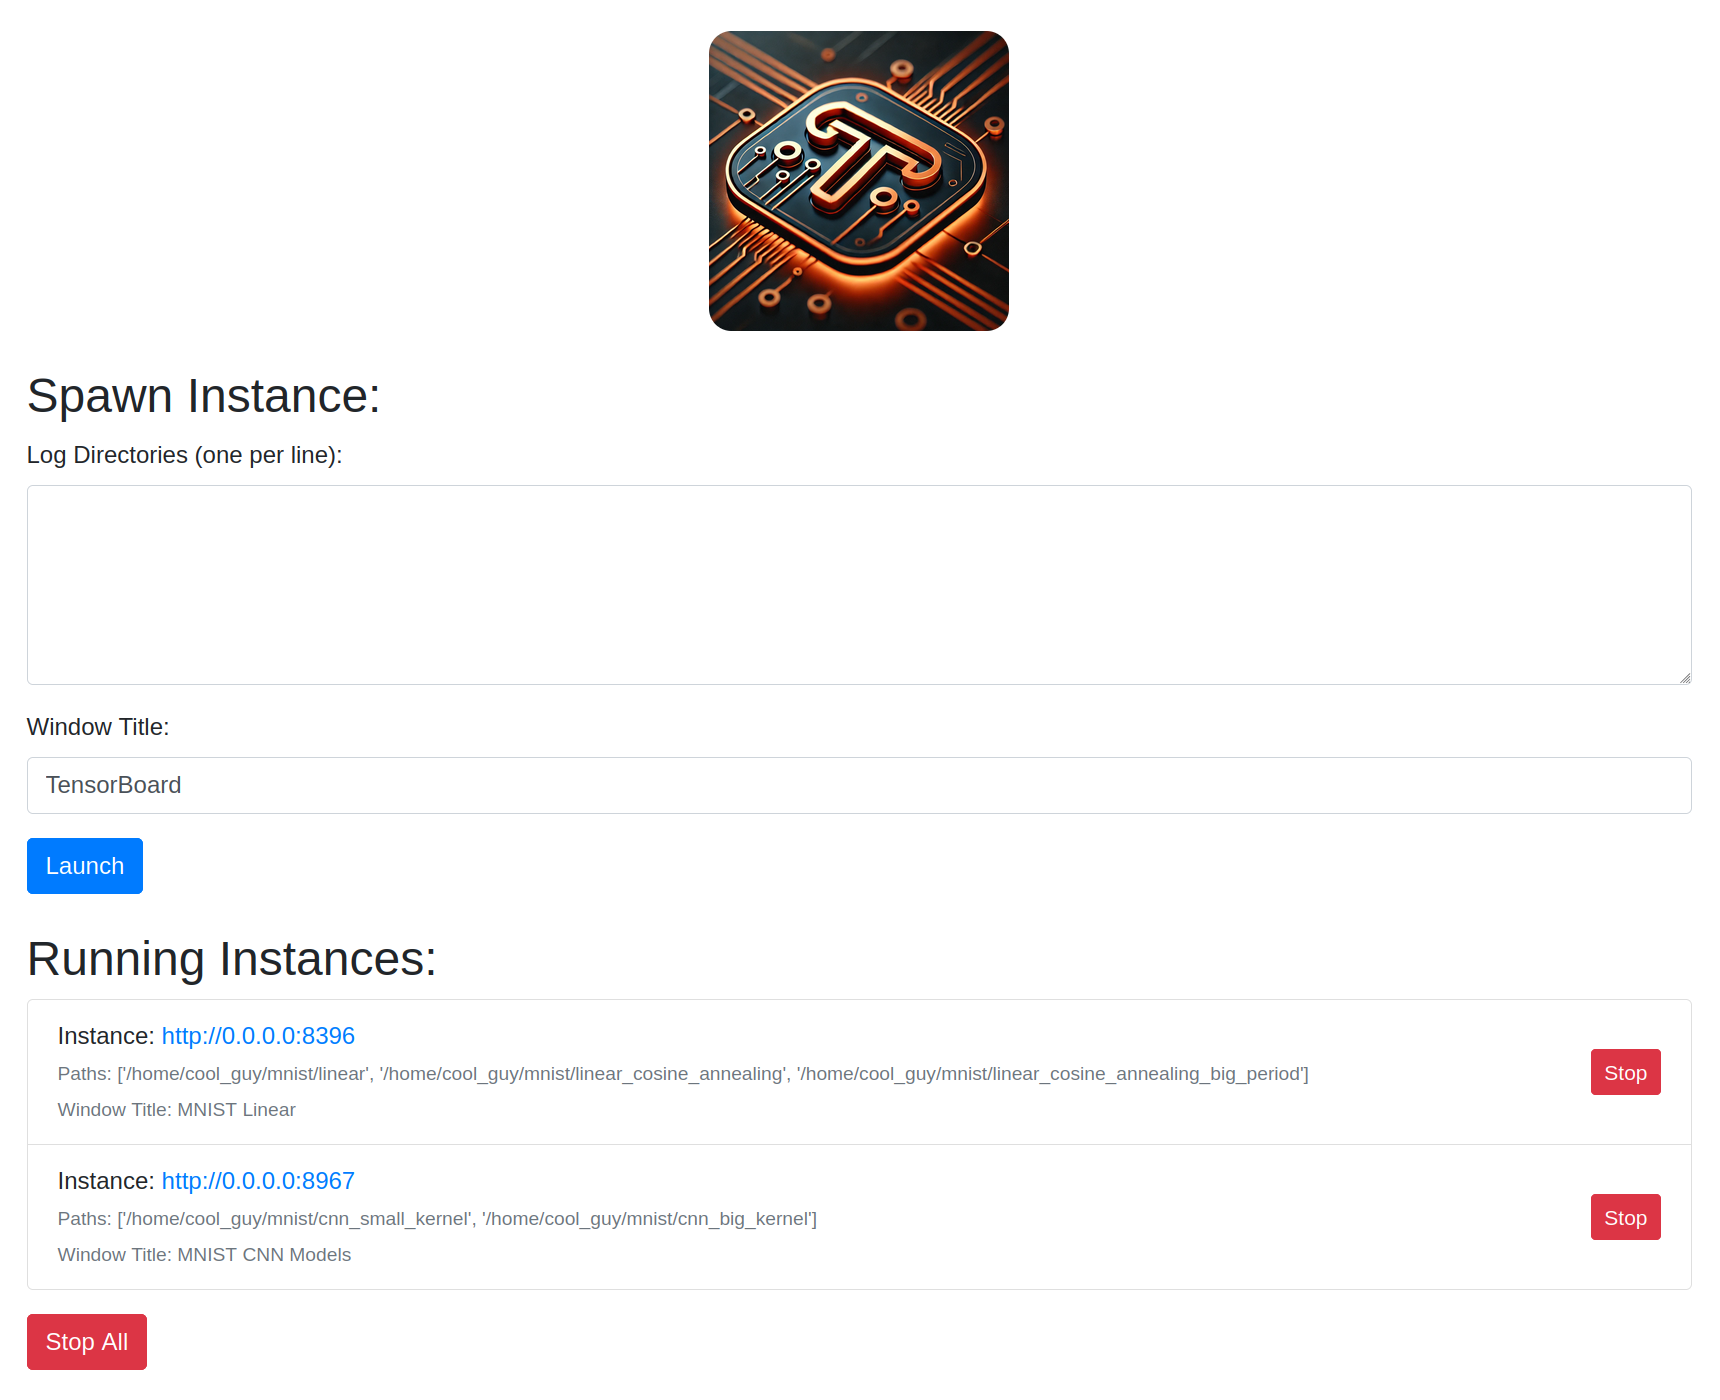
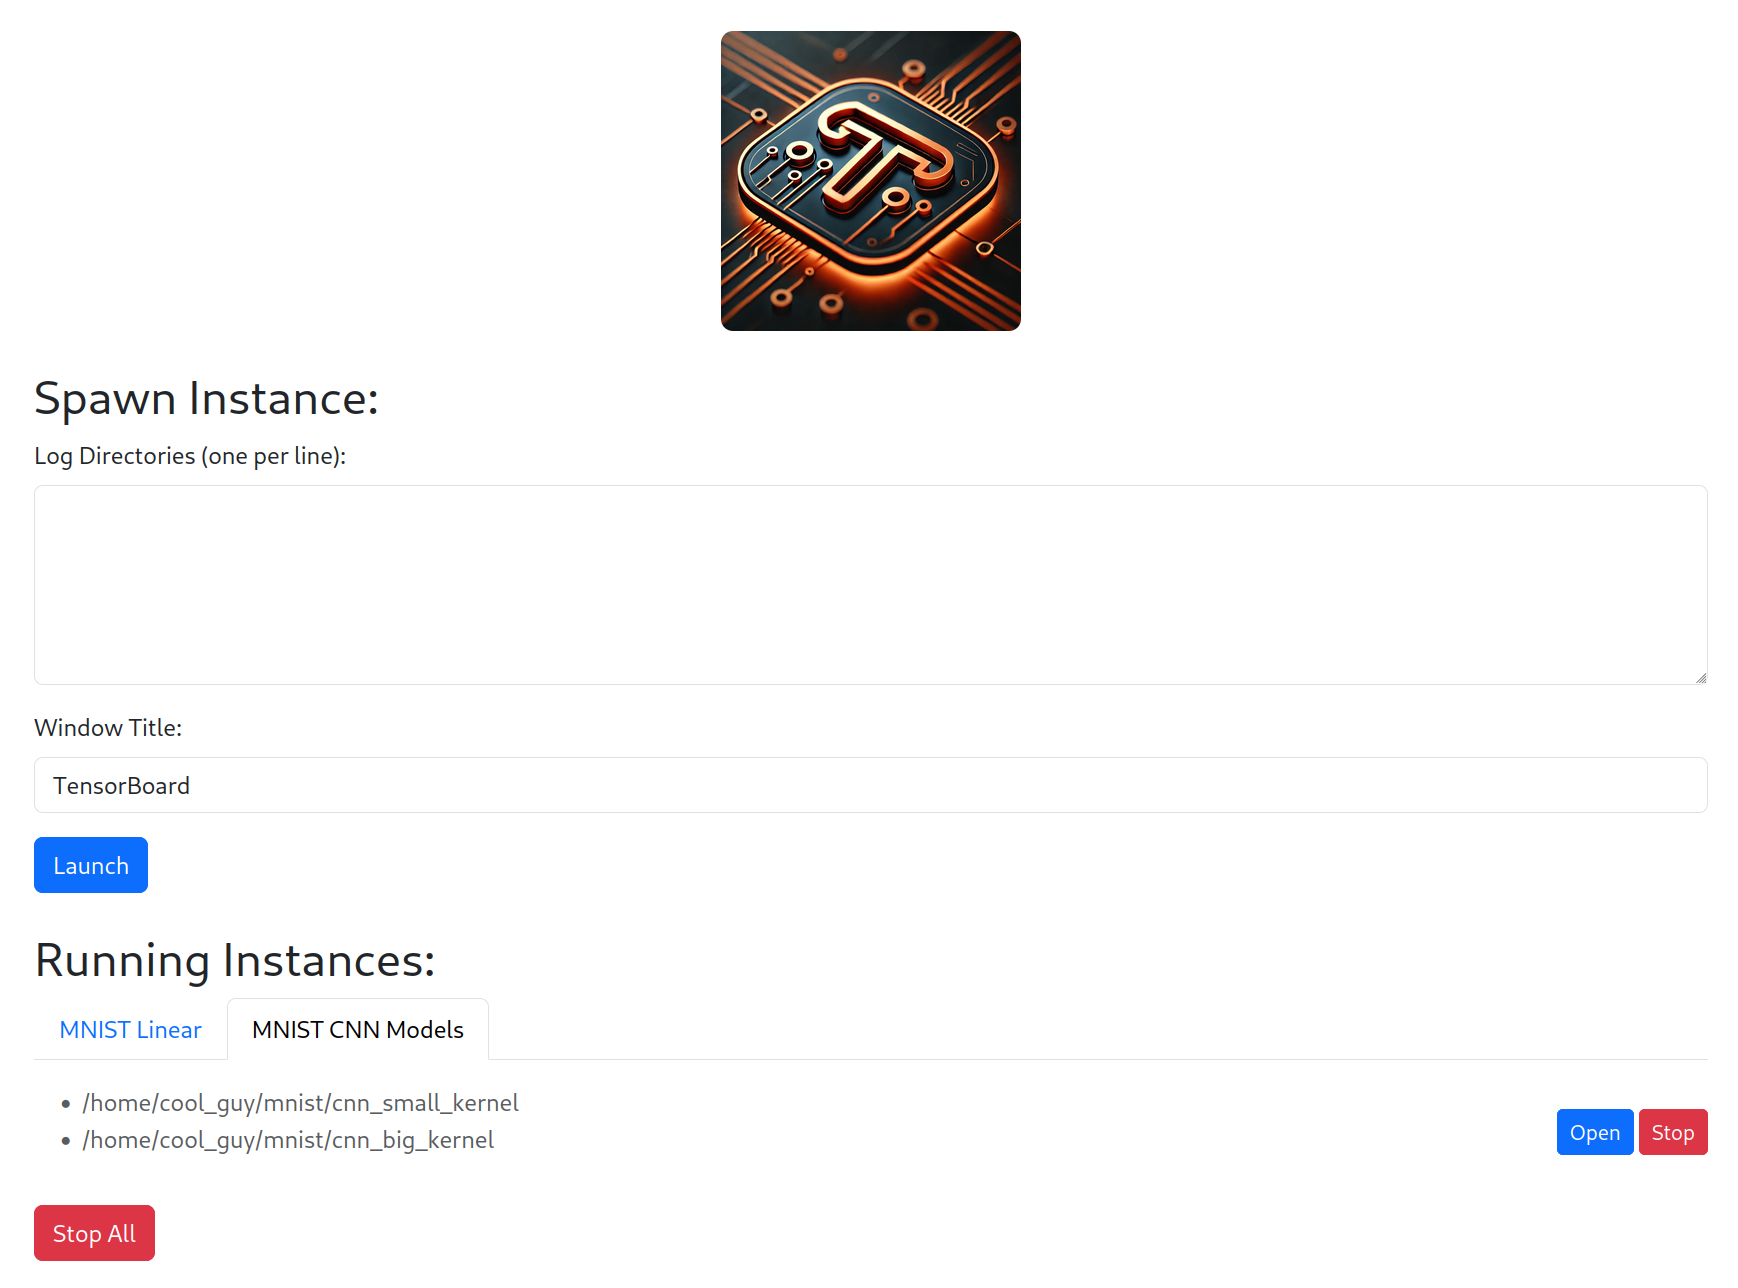
Improve UI

diff --git a/templates/index.html b/templates/index.html
@@ -4,49 +4,63 @@
     <meta charset="UTF-8">
     <meta name="viewport" content="width=device-width, initial-scale=1.0">
     <title>TensorBoard Manager</title>
-    <link rel="stylesheet" href="https://stackpath.bootstrapcdn.com/bootstrap/4.5.2/css/bootstrap.min.css">
+    <link href="https://cdn.jsdelivr.net/npm/bootstrap@5.3.0/dist/css/bootstrap.min.css" rel="stylesheet">
 </head>
 <body>
-    <div class="container mt-5">
-        <div class="text-center mb-4">
-            <img alt="TensorBoard Manager" src="{{ url_for('static', filename='logo.webp') }}" style="border-radius: 15px; max-height: 200px">
-        </div>
-
-        <h2>Spawn Instance:</h2>
-        <form method="POST" class="mb-4">
-            <div class="form-group">
-                <label for="paths">Log Directories (one per line):</label>
-                <textarea class="form-control" id="paths" name="paths" rows="5"></textarea>
-            </div>
-            <div class="form-group">
-                <label for="title">Window Title:</label>
-                <input type="text" class="form-control" id="title" name="title" value="TensorBoard">
-            </div>
-            <button type="submit" class="btn btn-primary">Launch</button>
-        </form>
-
-        <h2>Running Instances:</h2>
-        <ul class="list-group">
-            {% for cfg, ident, logdir, port in instances %}
-            <li class="list-group-item d-flex justify-content-between align-items-center">
-                <span>
-            Instance: <a href="http://{{ host }}:{{ port }}" target="_blank">http://{{ host }}:{{ port }}</a>
-                    <br>
-                    <small class="text-muted">Paths: {{ cfg.paths }}</small>
-                    <br>
-                    <small class="text-muted">Window Title: {{ cfg.title }}</small>
-                </span>
-                <a href="{{ url_for('stop', instance_id=ident) }}" class="btn btn-danger btn-sm">Stop</a>
-            </li>
-            {% endfor %}
-        </ul>
-        <div class="mt-3">
-            <a href="{{ url_for('cleanup') }}" class="btn btn-danger" onclick="return confirm('Are you sure you want to stop all instances?')">Stop All</a>
-        </div>
+<div class="container mt-5">
+    <div class="text-center mb-4">
+        <img alt="TensorBoard Manager" src="{{ url_for('static', filename='logo.webp') }}" class="rounded-3" style="max-height: 200px">
     </div>
 
-    <script src="https://code.jquery.com/jquery-3.5.1.slim.min.js"></script>
-    <script src="https://cdn.jsdelivr.net/npm/@popperjs/core@2.5.3/dist/umd/popper.min.js"></script>
-    <script src="https://stackpath.bootstrapcdn.com/bootstrap/4.5.2/js/bootstrap.min.js"></script>
+    <h2>Spawn Instance:</h2>
+    <form method="POST" class="mb-4">
+        <div class="mb-3">
+            <label for="paths" class="form-label">Log Directories (one per line):</label>
+            <textarea class="form-control" id="paths" name="paths" rows="5"></textarea>
+        </div>
+        <div class="mb-3">
+            <label for="title" class="form-label">Window Title:</label>
+            <input type="text" class="form-control" id="title" name="title" value="TensorBoard">
+        </div>
+        <button type="submit" class="btn btn-primary">Launch</button>
+    </form>
+
+    <h2>Running Instances:</h2>
+    <ul class="nav nav-tabs" id="instanceTabs" role="tablist">
+        {% for cfg, ident, logdir, port in instances %}
+        <li class="nav-item" role="presentation">
+            <button class="nav-link {% if loop.first %}active{% endif %}" id="tab-{{ ident }}" data-bs-toggle="tab" data-bs-target="#content-{{ ident }}" type="button" role="tab">
+                {{ cfg.title }}
+            </button>
+        </li>
+        {% endfor %}
+    </ul>
+    <div class="tab-content mt-3">
+        {% for cfg, ident, logdir, port in instances %}
+        <div class="tab-pane {% if loop.first %}show active{% endif %}" id="content-{{ ident }}" role="tabpanel">
+            <div class="d-flex justify-content-between align-items-center">
+                <span>
+                    <ul class="text-muted">
+                        {% for path in cfg.paths %}
+                        <li>{{ path }}</li>
+                        {% endfor %}
+                    </ul>
+                </span>
+                <span>
+                  <a href="http://{{ host }}:{{ port }}" target="_blank" class="btn btn-primary btn-sm">Open</a>
+                  <a href="{{ url_for('stop', instance_id=ident) }}" class="btn btn-danger btn-sm" onclick="return confirm('Are you sure you want to stop this instance?')">Stop</a>
+                </span>
+            </div>
+        </div>
+        {% endfor %}
+    </div>
+
+    <div class="mt-3">
+        <a href="{{ url_for('cleanup') }}" class="btn btn-danger" onclick="return confirm('Are you sure you want to stop all instances?')">Stop All</a>
+    </div>
+</div>
+
+
+    <script src="https://cdn.jsdelivr.net/npm/bootstrap@5.3.0/dist/js/bootstrap.bundle.min.js"></script>
 </body>
 </html>
